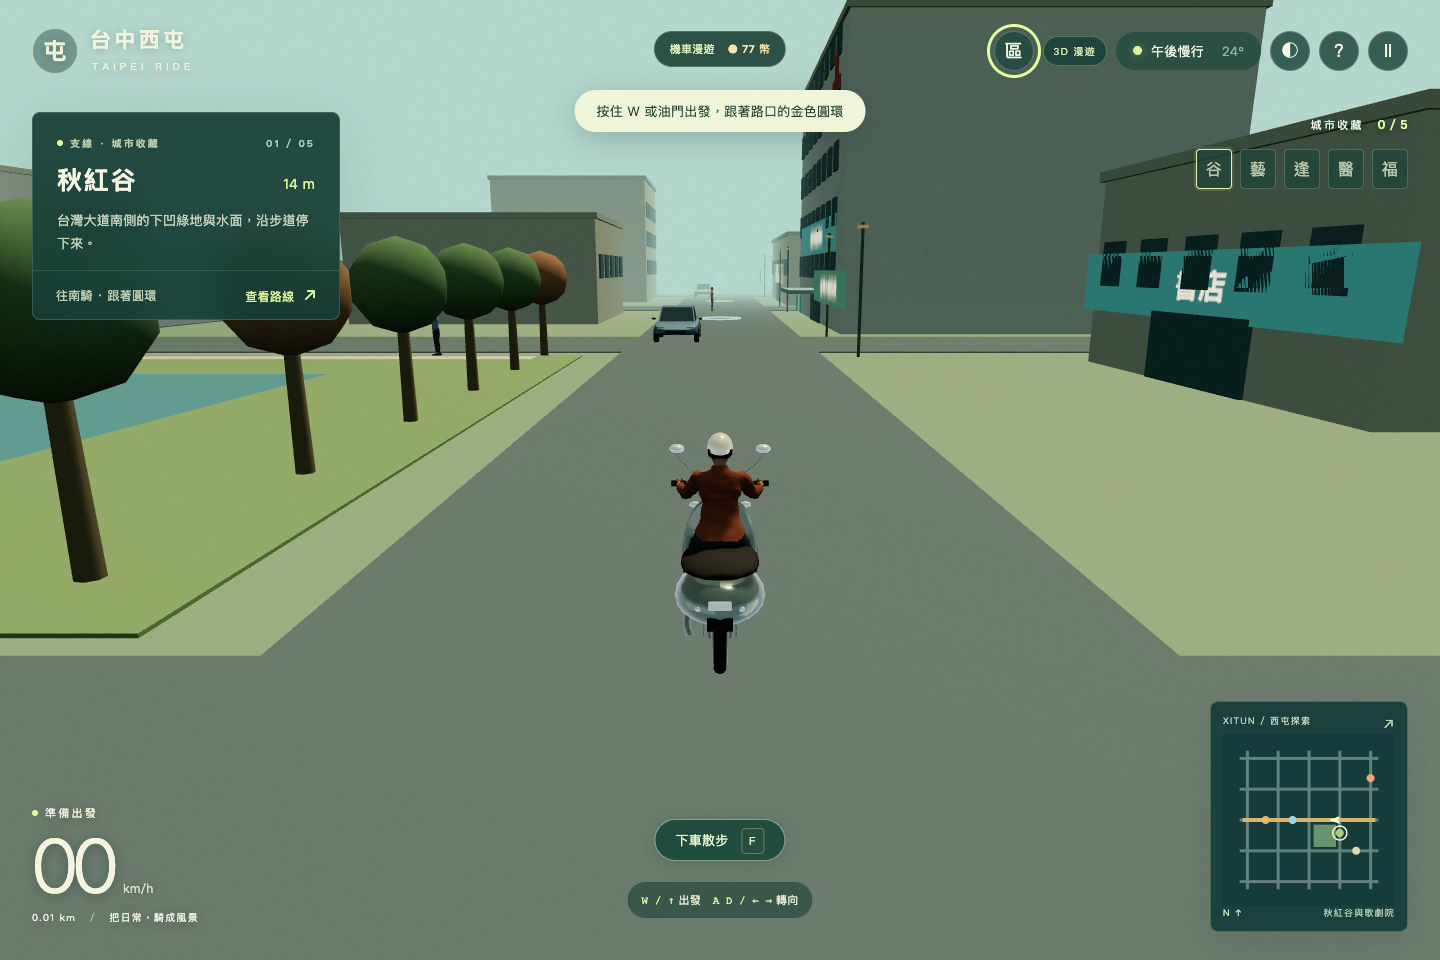
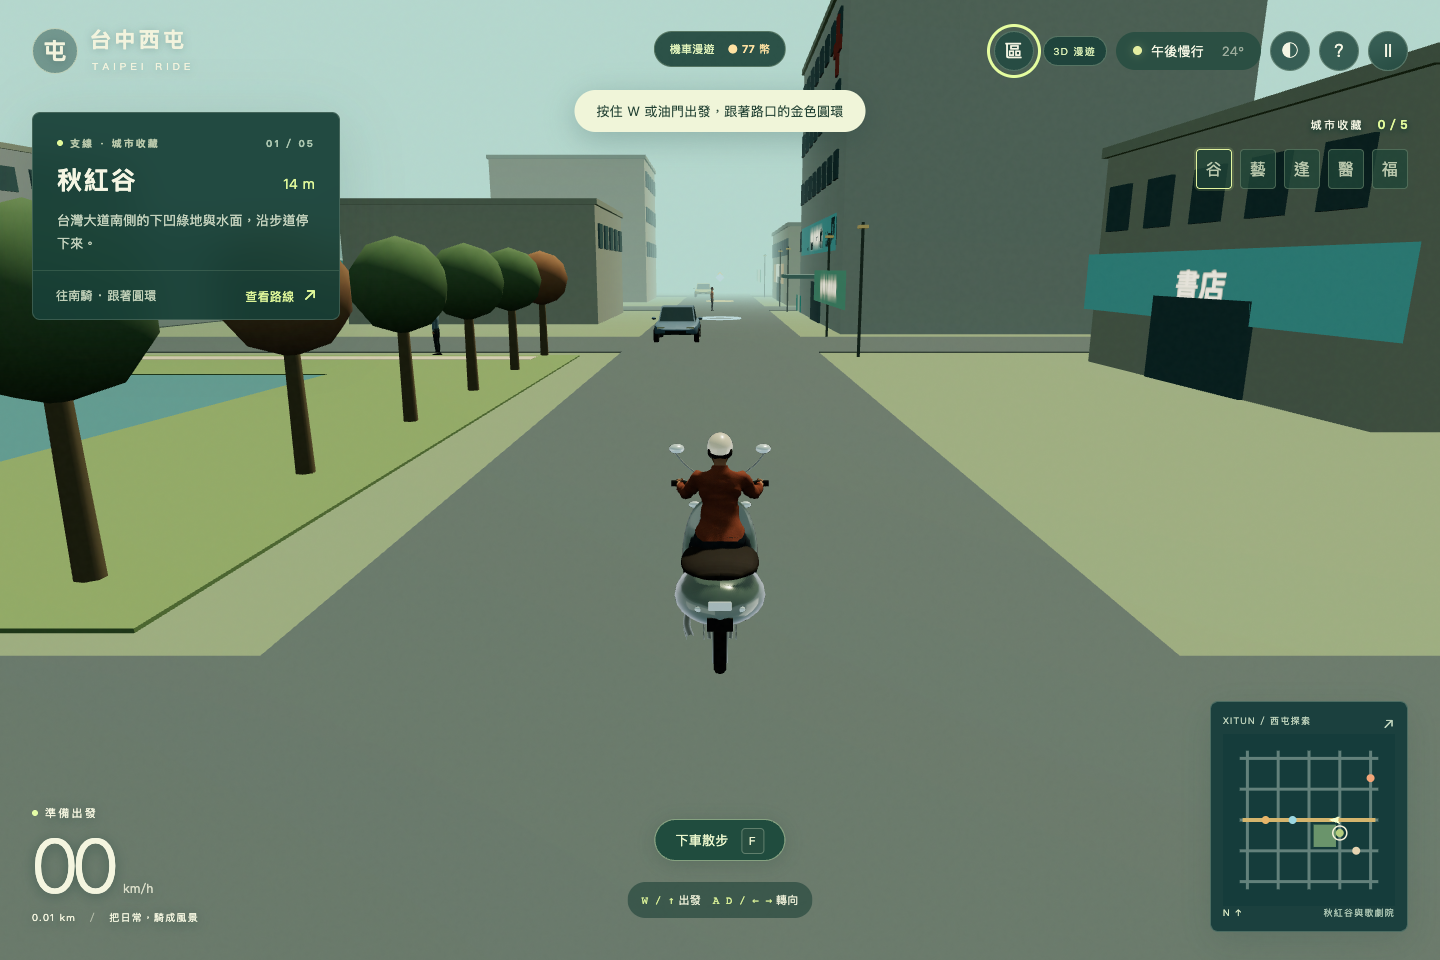
Fix Xitun water geometry and align architecture with measured model proportions

diff --git a/src/xitun-visuals.js b/src/xitun-visuals.js
@@ -1,5 +1,5 @@
 import * as T from '../vendor/three.module.js';
-import {ROADS,ROAD_WIDTH} from './world.js';
+import {ROADS,ROAD_WIDTH,BUILDING} from './world.js';
 // Scene-local geometry, materials and sign textures; no map or renderer cache.
 export function createXitunCity(world){
  const city=new T.Group();city.name='simplified-xitun-city';
@@ -30,13 +30,15 @@ export function createXitunCity(world){
    label(o.sign,cx,13,o.y-5,150,15,'#777469',Math.PI);continue;
   }
   add(cx,0,cz,o.w,o.h,o.d,o.color);add(cx,o.h,cz,o.w+3,3,o.d+3,0xb7c2b2);
-  for(let y=24;y<o.h-10;y+=25)for(let x=o.x+12;x<o.x+o.w-7;x+=24){add(x,y,o.y+o.d+.5,13,13,1,0xffffff,glass);add(x,y,o.y-.5,13,13,1,0xffffff,glass);}
-  add(cx,0,o.y+o.d,45,18,2,0xffffff,glass);label(o.sign,cx,o.kind==='hospital'?46:25,o.y+o.d+1,o.kind==='hospital'?175:135,17,o.kind==='store'?'#91714b':'#356a66');
-  if(o.kind==='hospital'){add(o.x+o.w-24,o.h-38,o.y+o.d+2,6,25,1,0xc45c48);add(o.x+o.w-24,o.h-29,o.y+o.d+2,22,6,1,0xc45c48);add(cx,16,o.y+o.d+9,62,2,18,0x9bc9c5);label('入口',cx,10,o.y+o.d+10,30,9);}
+  for(let y=BUILDING.groundFloorHeight+8;y<o.h-10;y+=BUILDING.upperFloorHeight)for(let x=o.x+12;x<o.x+o.w-7;x+=24){add(x,y,o.y+o.d+.5,13,13,1,0xffffff,glass);add(x,y,o.y-.5,13,13,1,0xffffff,glass);}
+  add(cx,0,o.y+o.d,45,BUILDING.doorHeight,2,0xffffff,glass);label(o.sign,cx,o.kind==='hospital'?46:25,o.y+o.d+1,o.kind==='hospital'?175:135,17,o.kind==='store'?'#91714b':'#356a66');
+  if(o.kind==='hospital'){add(o.x+o.w-24,o.h-38,o.y+o.d+2,6,25,1,0xc45c48);add(o.x+o.w-24,o.h-29,o.y+o.d+2,22,6,1,0xc45c48);add(cx,BUILDING.doorHeight+2,o.y+o.d+9,62,2,18,0x9bc9c5);label('入口',cx,10,o.y+o.d+10,30,9);}
  }
  // The dark center is lower than the green terraces, while the rim stays at
  // walking level. Water bounds match the simulation's fixed obstacle exactly.
- add(965,-1,963,232,1.4,232,0x85a56d);add(970,-.4,966,195,.5,166,0xa0b58b);add(971,-.3,964,136,.7,108,0x58959e);add(970,.2,1057,205,.25,11,0xddd4b9);add(858,.2,967,11,.25,211,0xddd4b9);
+ // Four rim strips leave an actual opening rather than a coplanar green
+ // plate under the water. Distinct heights prevent depth-buffer striping.
+ add(875.5,0,964,55,.4,232,0x85a56d);add(1059.5,0,964,41,.4,232,0x85a56d);add(971,0,879,136,.4,62,0x85a56d);add(971,0,1049,136,.4,62,0x85a56d);add(971,.01,964,136,.1,108,0x58959e);add(970,.2,1057,205,.25,11,0xddd4b9);add(858,.2,967,11,.25,211,0xddd4b9);
  label('秋紅谷',1060,14,1065,75,15,'#697b51');
  for(const o of world.stalls){const cx=o.x+o.w/2,cz=o.y+o.d/2;add(cx,0,cz,o.w,15,o.d,0xa68864);add(cx,24,cz,o.w+5,3,o.d+8,o.color);add(o.x+2,0,o.y+o.d,1.5,24,1.5,0xd6c7a2);add(o.x+o.w-2,0,o.y+o.d,1.5,24,1.5,0xd6c7a2);label(o.sign,cx,18,o.y+o.d+1,39,9,'#815746');}
  label('逢甲夜市',1290,37,435,140,17,'#944d46');

diff --git a/src/world-xitun.js b/src/world-xitun.js
@@ -1,4 +1,4 @@
-import {makeTraffic,ROADS,trafficPose,collisionBody,bodiesOverlap} from './world.js';
+import {makeTraffic,ROADS,trafficPose,collisionBody,bodiesOverlap,BUILDING} from './world.js';
 import {createXitunCity} from './xitun-visuals.js';
 export const cityFactory=createXitunCity;
 // North remains up. Distances and bends are compressed into the existing driving
@@ -15,7 +15,7 @@ export const XITUN_LANDMARKS=[
 ];
 export function createSceneWorld(){
  const buildings=[],stalls=[],trees=[],lamps=[],obstacles=[];
- const building=(x,y,w,d,h,color,sign,kind='block')=>{const b={type:'building',kind,x,y,w,d,h,height:h,floorCount:Math.max(2,Math.round(h/28)),color,seed:.3,sign};buildings.push(b);obstacles.push({type:'building',x,y,w,d,height:h});};
+ const building=(x,y,w,d,h,color,sign,kind='block')=>{const floorCount=Math.max(2,Math.round(h/28));h=BUILDING.groundFloorHeight+(floorCount-1)*BUILDING.upperFloorHeight;const b={type:'building',kind,x,y,w,d,h,height:h,floorCount,doorHeight:BUILDING.doorHeight,floorPitch:BUILDING.upperFloorHeight,color,seed:.3,sign};buildings.push(b);obstacles.push({type:'building',x,y,w,d,height:h});};
  building(535,570,210,175,136,'#d9e4df','澄清醫院','hospital');
  building(215,535,215,210,55,'#e7dfc3','萬家福西屯店','store');
  building(1180,1180,205,190,90,'#e9e0cc','臺中國家歌劇院','opera');

diff --git a/docs/xitun/2026-10-03.md b/docs/xitun/2026-10-03.md
@@ -53,8 +53,8 @@ GitHub Actions 使用明確標示的 SwiftShader 軟體 WebGL，屬於另外的 
 
 ### 本機最終驗證紀錄
 
-- `npm run check`：179單元測試通過，靜態build通過；62個來源／腳本／測試模組的`node --check`及`git diff --check`通過。此專案未提供另外的lint命令。
-- 完整遊戲套件：50通過、16依既有跨視窗測試設計略過；其後對最終UI與中斷補強再跑完整西屯套件：28通過、2略過（長台灣大道路線只跑桌面）。
+- `npm run check`：181單元測試通過，靜態build通過；62個來源／腳本／測試模組的`node --check`及`git diff --check`通過。此專案未提供另外的lint命令。
+- 完整遊戲套件：50通過、16依既有跨視窗測試設計略過；其後對最終UI與中斷補強再跑完整西屯套件：29通過、4略過（長台灣大道路線與正交比例檢查只跑桌面）。
 - 三伺服器樣板前後／main比較：9通過；[本次台北樣板重新核對數值](2026-10-03-taipei-recheck.json)為各靜態／動態一次120幀測試，未冒充三次重複或高負載改善證據。
 - 西屯正常遊戲循環：1440×960 CSS／1440×960 buffer、auto畫質，120幀平均60.003 FPS／16.6658ms。此為幀更新節奏，並非GPU耗時。讀取GPU資源數量的六輪切換，各視窗內同一地區數量保持穩定；這是Three.js已上傳資源計數，不是VRAM位元組量測。
 
@@ -70,3 +70,26 @@ GitHub Actions 使用明確標示的 SwiftShader 軟體 WebGL，屬於另外的 
 ![繼續騎乘抵達萬家福西屯店](prosperity-xitun.png)
 
 臺灣大道入口另外保存於[入口畫面](taiwan-boulevard-entry.png)。
+
+最後視覺修正將秋紅谷綠地拆成有開口的四段邊緣，水面與地面保留高度差，消除共平面條紋；另增幾何重疊回歸測試，並以Mac原生GPU重跑秋紅谷畫面（1通過）。原生FPS與六輪資源數據已按最後共享樓層／門高修正重新量測；JSON保存來源檔案SHA256。
+
+## 追加：Google Maps與相對比例檢查
+
+本任務已讀取Browser操作規範並重新搜尋可呼叫工具，恢復Mac連線後仍沒有本任務可用的瀏覽器控制工具。公開Google Maps網址讀取亦回傳不可取得。因此**Google Maps／街景實景沒有完成驗證**，沒有操作另一任務的瀏覽器頁面、沒有繞過其連線修復流程。前述官方與Waze資料核對已完成，不能把它改稱Google Maps視覺驗證。
+
+共享設計基準：10世界單位／m，人物1.72m、汽車高1.5m／長4.4m、機車長2m、上層樓高3m、門高2.2m。地面商業層沿用既有3.2m標準；西屯建築改用3.2m首層＋每層3m，門與醫院雨棚淨高亦改用2.2m與2.4m。沒有把模擬建築稱為現場測量。
+
+| 設計尺寸 | m | 相對1.72m人物 |
+| --- | ---: | ---: |
+| 人物 | 1.72 | 100% |
+| 汽車高度 | 1.5 | 87.21% |
+| 汽車長度 | 4.4 | 255.81% |
+| 機車長度 | 2 | 116.28% |
+| 上層樓高 | 3 | 174.42% |
+| 門高 | 2.2 | 127.91% |
+
+實際可見模型包圍盒並非完全等於設計或碰撞外框：人物約1.669m（較1.72m少2.96%）、汽車約1.411m高（少5.93%）／4.393m長（少0.17%）、無騎士機車約1.971m長（少1.43%）。各模型採同一正交鏡頭、相同縮放，最低可見點對齊地面作比較；**未重新縮放人物／車輛，也未以透視畫面的像素大小冒充實際尺寸**。以可見人物高度為100%，汽車高約84.53%、汽車長約263.16%、機車長約118.11%、2.2m門約131.80%、3m樓層約179.73%。設計尺寸與可見外觀存在上述偏差，未宣稱真實比例完全一致。
+
+![實際遊戲模型相同尺度正交比例檢查](relative-proportions.png)
+
+原始尺寸、GPU與來源雜湊見[比例證據JSON](relative-proportions.json)。新增樓層／門高單元測試與瀏覽器正交比例測試，並重跑三種視窗全部西屯回歸：29通過、4略過；單元總數181全部通過。
